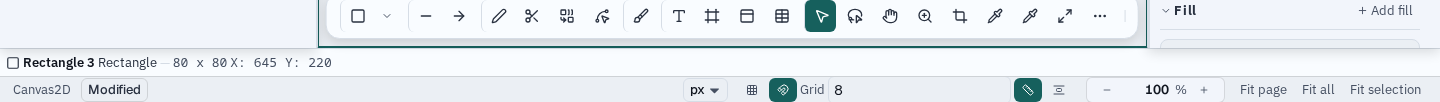
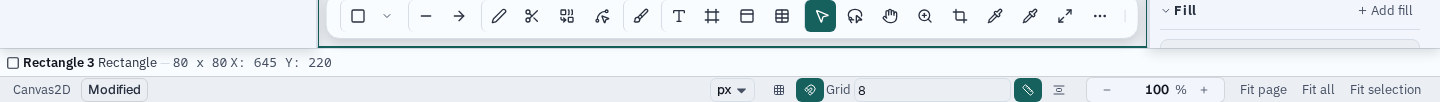
fix(statusbar): re-scope the grid-spacing field to the bar's own control tier

Changed region(s): [[0.4688, 0.7647, 0.625, 1.0]]

diff --git a/tests/e2e/workspace/bottom-bar.spec.ts b/tests/e2e/workspace/bottom-bar.spec.ts
@@ -166,14 +166,20 @@ test.describe('bottom bar', () => {
         const bar = document.querySelector('.editor-status');
         if (!bar) return null;
         const barRect = bar.getBoundingClientRect();
-        const buttons = Array.from(bar.querySelectorAll('button')).filter(
-          (button) =>
-            getComputedStyle(button).display !== 'none' && button.getClientRects().length > 0,
+        // Buttons AND field-shaped controls. The first version of this check
+        // measured only <button>, which is how the grid-spacing input shipped
+        // at 28px in a 25.8px content box: a non-button control is still a
+        // control in this row.
+        const controls = Array.from(
+          bar.querySelectorAll('button, input, [role="combobox"], [role="spinbutton"]'),
+        ).filter(
+          (control) =>
+            getComputedStyle(control).display !== 'none' && control.getClientRects().length > 0,
         );
         return {
           barTop: barRect.top,
           barBottom: barRect.bottom,
-          buttons: buttons.map((button) => {
+          buttons: controls.map((button) => {
             const rect = button.getBoundingClientRect();
             return {
               label: button.getAttribute('aria-label') ?? button.textContent ?? '',

diff --git a/packages/editor/src/editor.css b/packages/editor/src/editor.css
@@ -1453,8 +1453,20 @@ input[type="number"] {
   color: var(--color-text-muted);
   user-select: none;
 }
-.editor-status__snap-grid .number-input {
+/* The grid-spacing field is the one control in the row that comes from
+ * @varve/ui, so it arrives carrying that package's field contract:
+ * `min-height: var(--component-compact-height)` (28px) and `font-size: -sm`.
+ * In a 26.8px row that overflows the content box by ~1.1px on each side and
+ * reads as a bigger, off-centre box among 24px controls — the "improper
+ * centering" a review spotted. Re-scope it to the bar's own tier, and fix the
+ * selector while here: `.number-input` never matched `varve-number-input`, so
+ * the intended width cap was dead. */
+.editor-status__snap-grid .varve-number-input {
   min-width: 3rem;
+  min-height: var(--statusbar-control-height);
+  height: var(--statusbar-control-height);
+  padding: 0 var(--space-1);
+  font-size: var(--font-size-xs);
 }
 
 /* ── View rotation chip (StatusBar) ─────────────────── */

diff --git a/docs/audits/bottom-bar-review-2026-09-29.md b/docs/audits/bottom-bar-review-2026-09-29.md
@@ -213,6 +213,30 @@ Email workspaces, so it failed SC 2.5.8 there while every neighbour passed.
 --statusbar-control-height`, `min-width: --target-min-compact`) and the
 coarse-pointer block.
 
+### P1 — The grid-spacing field was a 28px field in a 26px row (regression, caught in review)
+
+**Evidence.** A follow-up review screenshot showed the grid-spacing input
+sitting proud of the row. `.varve-number-input` (from `@varve/ui`) carries that
+package's field contract — `min-height: var(--component-compact-height)` (28px)
+and `font-size: var(--font-size-sm)` — and nothing in the status bar overrode
+it, so it overflowed the 25.8px content box by ~1.1px each side and rendered
+bigger than every 24px control beside it. Optically it read as off-centre even
+though `align-items: center` was doing its job: the box was taller than the row
+it was being centred in.
+
+**Why the check missed it.** The geometry assertion measured
+`bar.querySelectorAll('button')`. A field is not a button, so the one
+non-button control in the row was the one control never measured.
+
+**Fix.** `.editor-status__snap-grid .varve-number-input` is re-scoped to
+`--statusbar-control-height`, `--font-size-xs`, and the row's own padding.
+While there: the previous rule targeted `.number-input`, which never matched
+`varve-number-input`, so the intended width cap was dead CSS.
+
+**Regression guard.** The geometry check now measures
+`button, input, [role="combobox"], [role="spinbutton"]` — every interactive
+shape in the row, not just buttons — and it asserts height as well as clipping.
+
 ### P2 — The idle AI chip was a claim, not a status
 
 **Evidence.** `AIStatusIndicator` spent nearly all of its life rendering
@@ -279,7 +303,7 @@ by other applications.
   running, `null` otherwise; permanent `sr-only` live region; `aiStatus`
   retired as a section id. |
 | `packages/editor/src/Menubar.tsx` | Menubar zoom control removed (duplicate of the status-bar chip). |
-| `packages/editor/src/editor.css` | Status-bar cluster/spacer rules; `--statusbar-control-height` (the row's own control tier) replacing the 28px toolbar token; preflight badge target size; removed the informational dash rule and the menubar zoom rules. |
+| `packages/editor/src/editor.css` | Status-bar cluster/spacer rules; `--statusbar-control-height` (the row's own control tier) replacing the 28px toolbar token; preflight badge target size; grid-spacing field re-scoped to that same tier (and its dead `.number-input` selector corrected to `.varve-number-input`); removed the informational dash rule and the menubar zoom rules. |
 | `packages/editor/src/components/WorkspaceCustomizeDialog.tsx` | Save-status row renders disabled with a reason; hint text describes the two clusters. |
 
 ## Verification
